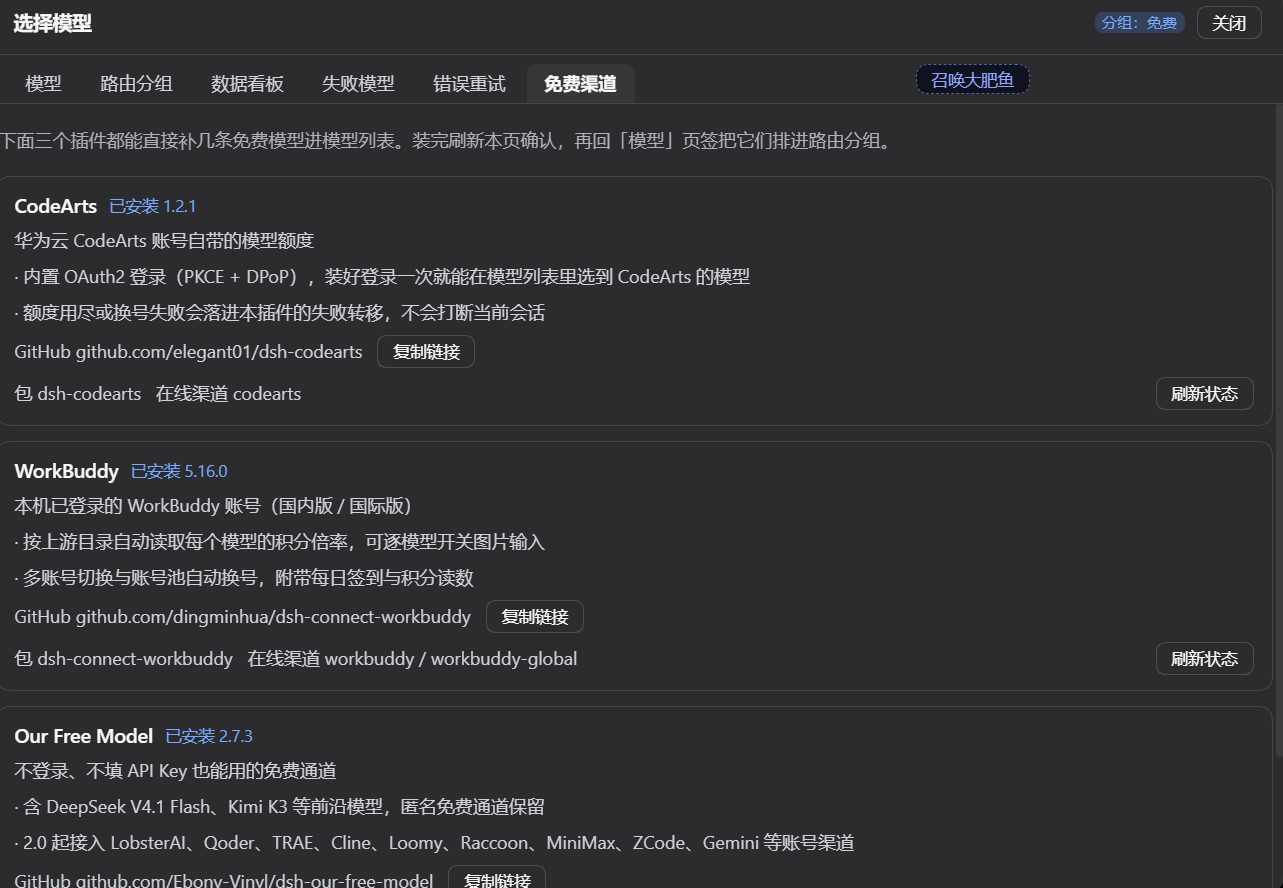
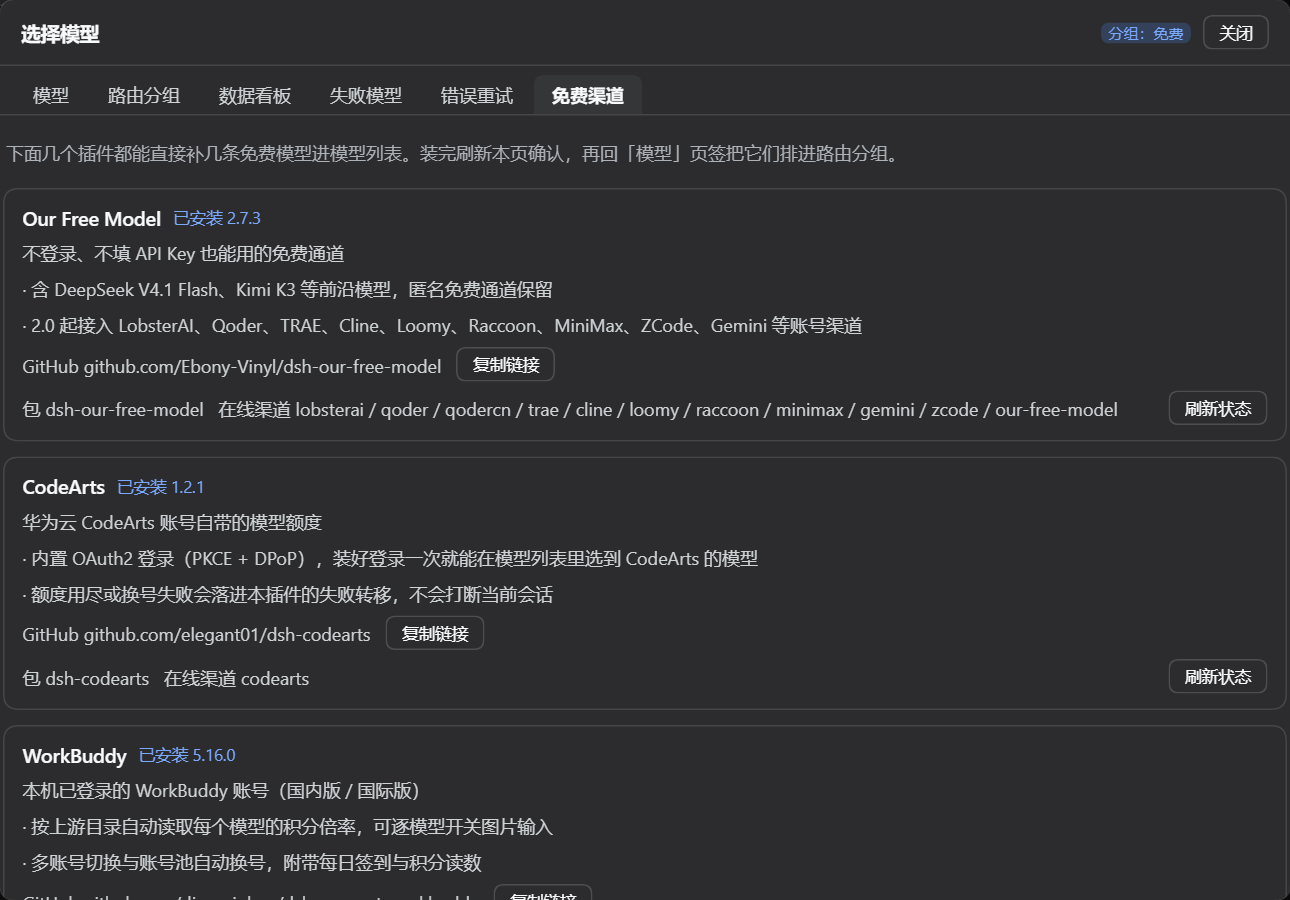
Put Our Free Model first on the free-channels tab and refresh its screenshot
- host.mjs: FREE_CHANNELS now lists our-free-model first, so the tab shows it
  before the credential-backed connectors; claiming is split from display order
  (claimOrder runs the dedicated connectors first, the aggregator last) so the
  aggregator still only takes the provider ids nobody else installed for.
  HOST_VERSION v88 -> v89.
- client.js: FREE_CHANNEL_COPY moves our-free-model to the top of the object
  (Object.keys decides the stale fallback order). VERSION v24 -> v25.
- docs/preview-free-channels.png: recaptured from the running host, showing the
  new card order.
- README.md and docs/market.{zh,en}.md: state that the card order is fixed with
  Our Free Model first, and update the tab table, the channel bullets and the
  image alt text.
- .offline-check.mjs: assert the new channel order (249/249 pass).
- package.json: 2.25.0 -> 2.25.1.

diff --git a/client.js b/client.js
@@ -28,7 +28,7 @@ window.__ModuleLoader__.load({
     var API = '/api/model-failover'
     // dsh-llm-error-retry 的界面与配置 API 都挂在这个前缀上（同源，相对路径即可）。
     var RETRY_UI = '/llm-error-retry'
-    var VERSION = 'v24'
+    var VERSION = 'v25'
 
     /* ------------------------------------------------------------ styles -- */
     // 只用 ui-theme 已定义的 --dsw-alias-* token，不写硬编码兜底色：
@@ -1116,6 +1116,15 @@ window.__ModuleLoader__.load({
        * 加渠道要同时改宿主 FREE_CHANNELS 与本表：宿主不认识新 id 就拿不到安装状态。
        */
       var FREE_CHANNEL_COPY = {
+        'our-free-model': {
+          repo: 'https://github.com/Ebony-Vinyl/dsh-our-free-model',
+          title: 'Our Free Model',
+          tagline: '不登录、不填 API Key 也能用的免费通道',
+          facts: [
+            '含 DeepSeek V4.1 Flash、Kimi K3 等前沿模型，匿名免费通道保留',
+            '2.0 起接入 LobsterAI、Qoder、TRAE、Cline、Loomy、Raccoon、MiniMax、ZCode、Gemini 等账号渠道',
+          ],
+        },
         codearts: {
           repo: 'https://github.com/elegant01/dsh-codearts',
           title: 'CodeArts',
@@ -1150,15 +1159,6 @@ window.__ModuleLoader__.load({
           facts: [
             '只需一个 PAT（pt- 开头）：无桌面端登录也能用，支持多账号池、每日签到与自动换号',
             '国内版 qoder 与国际版 qoder-global 可同时启用，签名与双层 SSE 由插件自己处理',
-          ],
-        },
-        'our-free-model': {
-          repo: 'https://github.com/Ebony-Vinyl/dsh-our-free-model',
-          title: 'Our Free Model',
-          tagline: '不登录、不填 API Key 也能用的免费通道',
-          facts: [
-            '含 DeepSeek V4.1 Flash、Kimi K3 等前沿模型，匿名免费通道保留',
-            '2.0 起接入 LobsterAI、Qoder、TRAE、Cline、Loomy、Raccoon、MiniMax、ZCode、Gemini 等账号渠道',
           ],
         },
       }

diff --git a/docs/market.en.md b/docs/market.en.md
@@ -17,7 +17,7 @@ Six tabs, ordered the way you actually triage:
 | **Dashboard** | First-token latency, output speed, token usage, live concurrency and success rate per model; one-click speed tests and re-prioritising by the current sort. |
 | **Failed models** | Today's exhausted models with the latest failure reason; restore one or all. |
 | **Error retry** | dsh-llm-error-retry's own configuration page: rules, first-token timeout, Retry-After cap, max continuations. Saving applies immediately. |
-| **Free channels** | Five plugins that add free models — CodeArts / WorkBuddy / Trae / Qoder / Our Free Model — with a copyable GitHub address and one-click install. |
+| **Free channels** | Five plugins that add free models — Our Free Model / CodeArts / WorkBuddy / Trae / Qoder — with a copyable GitHub address and one-click install; Our Free Model comes first. |
 
 ![Routing groups tab](preview-routing-groups.png)
 
@@ -42,19 +42,19 @@ Requires DSH `>=0.2.1-0 <0.3.0` (pre-releases such as rc/alpha included).
 - **A failure no longer interrupts you.** Inner retry policies run first; once they all decline, the plugin records the model as failed for the day, switches to the next routable model in the group, and continues the same turn on its own — no manual resend.
 - **Accounts and models are handled separately.** Our Free Model channels try another account first and only then switch models; a CodeArts pool poisoned by 401/403 is restarted through its own loader entry.
 - **State is visible.** Which model failed today and why, first-token latency, concurrency, success rate — all on the dashboard, no log digging.
-- **Free channels install in one click.** CodeArts, WorkBuddy, Trae, Qoder and Our Free Model install from the tab through the same engine the plugin market uses.
+- **Free channels install in one click.** Our Free Model, CodeArts, WorkBuddy, Trae and Qoder install from the tab through the same engine the plugin market uses.
 
 ## Free channels tab
 
-![Free channels tab](preview-free-channels.png)
+![Free channels tab: Our Free Model first](preview-free-channels.png)
 
-Each recommendation adds a few models you can run without paying:
+Each recommendation adds a few models you can run without paying. The card order is fixed, with Our Free Model on top — the only one that needs neither a login nor an API key:
 
+- **Our Free Model** (`dsh-our-free-model`): a no-login, no-API-key channel including DeepSeek V4.1 Flash and Kimi K3, which also routes Trae and Qoder accounts since 2.0.
 - **CodeArts** (`dsh-codearts`): models bundled with a Huawei Cloud CodeArts account, with built-in OAuth2 login (PKCE + DPoP).
 - **WorkBuddy** (`dsh-connect-workbuddy`): the WorkBuddy account already signed in on this machine (domestic / international), with per-model rate multipliers, account switching and daily check-in.
 - **Trae** (`dsh-connect-trae`): the Trae desktop account already signed in on this machine; domestic, enterprise and international each register a provider, with daily check-in and credit readouts.
 - **Qoder** (`@dmh2002/dsh-connect-qoder`): a Qoder account's model quota through a single PAT, with a multi-account pool and automatic switching; domestic and international can run side by side.
-- **Our Free Model** (`dsh-our-free-model`): a no-login, no-API-key channel including DeepSeek V4.1 Flash and Kimi K3, which also routes Trae and Qoder accounts since 2.0.
 
 Three separate facts per card: **installed** (read from the profile dependencies), **providers online** (read from the live `llm` registry), and the **GitHub address** (one click to copy). A channel that is installed but not logged in therefore never reads as "not installed".
 

diff --git a/docs/market.zh.md b/docs/market.zh.md
@@ -17,7 +17,7 @@
 | **数据看板** | 每个模型的首字延迟、输出速度、token 用量、并发现场、成功率；可一键测速、按当前排序重设优先级 |
 | **失败模型** | 当日彻底失败的模型与最近一次失败原因，逐个或一键全部恢复 |
 | **错误重试** | 内嵌 dsh-llm-error-retry 自己的配置页：规则、首字超时、Retry-After 上限、最大续写，保存即生效 |
-| **免费渠道** | CodeArts / WorkBuddy / Trae / Qoder / Our Free Model 五个能直接补免费模型的插件，带 GitHub 地址（一键复制）与一键安装 |
+| **免费渠道** | Our Free Model / CodeArts / WorkBuddy / Trae / Qoder 五个能直接补免费模型的插件，带 GitHub 地址（一键复制）与一键安装；Our Free Model 排第一张 |
 
 ![路由分组页签](preview-routing-groups.png)
 
@@ -42,19 +42,19 @@ dsh plugin add https://github.com/liaoyuqing/model-failover-manager
 - **失败不再打断你**：一次失败，内层重试先按规则重试；全都放弃后本插件标记该模型当日失败、切到组内下一个可用模型，并自动续跑当前这一轮 —— 不用手动重发。
 - **账号和模型分开处理**：Our Free Model 的渠道先尝试换账号，账号试完才换模型；CodeArts 池被 401/403 打成「无可用账号」时自动重启它自己的 Loader 条目自救。
 - **状态看得见**：哪个模型今天失败过、为什么失败、首字多慢、并发多少、成功率如何，都在看板里，不用翻日志。
-- **免费渠道一步装上**：CodeArts、WorkBuddy、Trae、Qoder、Our Free Model 五个插件在页签里直接安装，走的是插件市场同一个引擎。
+- **免费渠道一步装上**：Our Free Model、CodeArts、WorkBuddy、Trae、Qoder 五个插件在页签里直接安装，走的是插件市场同一个引擎。
 
 ## 免费渠道页签
 
-![免费渠道页签](preview-free-channels.png)
+![免费渠道页签：Our Free Model 排在最上面](preview-free-channels.png)
 
-五个推荐渠道都能让模型列表多出几条可以白跑的模型：
+五个推荐渠道都能让模型列表多出几条可以白跑的模型，卡片顺序固定，Our Free Model 在最上面（只有它不登录、不填 Key 就能用）：
 
+- **Our Free Model**（`dsh-our-free-model`）：不登录、不填 API Key 的免费通道，含 DeepSeek V4.1 Flash、Kimi K3 等；2.0 起也接 Trae、Qoder 等账号渠道。
 - **CodeArts**（`dsh-codearts`）：华为云 CodeArts 账号自带的模型额度，内置 OAuth2 登录（PKCE + DPoP）。
 - **WorkBuddy**（`dsh-connect-workbuddy`）：本机已登录的 WorkBuddy 账号（国内版 / 国际版），按上游目录读积分倍率，支持换号与每日签到。
 - **Trae**（`dsh-connect-trae`）：本机已登录的 Trae 桌面端账号，国内版 / 企业版 / 国际版各注册一个 provider，附每日签到与积分读数。
 - **Qoder**（`@dmh2002/dsh-connect-qoder`）：Qoder（通义灵码）账号额度，只需一个 PAT（`pt-` 开头），支持多账号池与自动换号，国内版与国际版可同时启用。
-- **Our Free Model**（`dsh-our-free-model`）：不登录、不填 API Key 的免费通道，含 DeepSeek V4.1 Flash、Kimi K3 等；2.0 起也接 Trae、Qoder 等账号渠道。
 
 卡片上三件事分开写清楚：**装没装**（读 profile 依赖）、**在线渠道**（读当前 llm 注册表）、**GitHub 地址**（一键复制）。所以「装了但没登录」不会显示成「没装」。
 

diff --git a/README.md b/README.md
@@ -15,7 +15,7 @@ DSH 插件：把 composer 的模型选择位换成带「路由分组」的选择
 | **数据看板** | 每个模型的首字延迟、输出速度、token 用量、并发现场、成功率；可一键测速、按当前排序重设优先级 |
 | **失败模型** | 当日彻底失败的模型与最近一次失败原因，逐个或一键全部恢复 |
 | **错误重试** | 内嵌 `dsh-llm-error-retry` 自己的配置页，保存即生效 |
-| **免费渠道** | CodeArts / WorkBuddy / Trae / Qoder / Our Free Model 五个能直接补免费模型的插件，带 GitHub 地址与一键安装 |
+| **免费渠道** | Our Free Model / CodeArts / WorkBuddy / Trae / Qoder 五个能直接补免费模型的插件，带 GitHub 地址与一键安装（Our Free Model 排第一张） |
 
 ## 界面
 
@@ -27,7 +27,7 @@ DSH 插件：把 composer 的模型选择位换成带「路由分组」的选择
 
 ![错误重试页签：内嵌 dsh-llm-error-retry 自己的配置页，顶部一条只读状态栏](docs/preview-error-retry.png)
 
-![免费渠道页签：三张卡片，各带 GitHub 地址、复制链接与一键安装](docs/preview-free-channels.png)
+![免费渠道页签：Our Free Model 排在最上面，每张卡片带 GitHub 地址、复制链接与一键安装](docs/preview-free-channels.png)
 
 ---
 
@@ -97,7 +97,7 @@ DSH 插件：把 composer 的模型选择位换成带「路由分组」的选择
 
 ## 免费渠道推荐
 
-弹窗的「免费渠道」页签列五个「装上一登录就多几条免费模型」的插件，每个卡片带一句定位、两条事实、GitHub 地址（一键复制）与安装状态：
+弹窗的「免费渠道」页签列五个「装上一登录就多几条免费模型」的插件，顺序固定、Our Free Model 排第一张（不登录、不填 Key 就能用，其余四条都要登录本机账号），每个卡片带一句定位、两条事实、GitHub 地址（一键复制）与安装状态：
 
 | 渠道 | 包 | 提供什么 |
 | --- | --- | --- |
